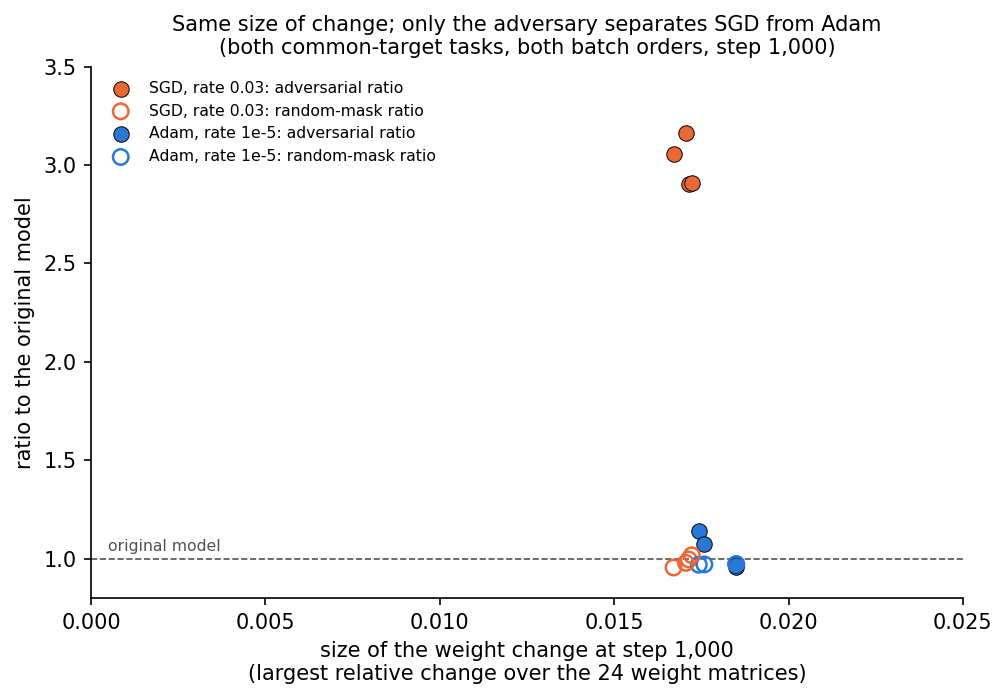
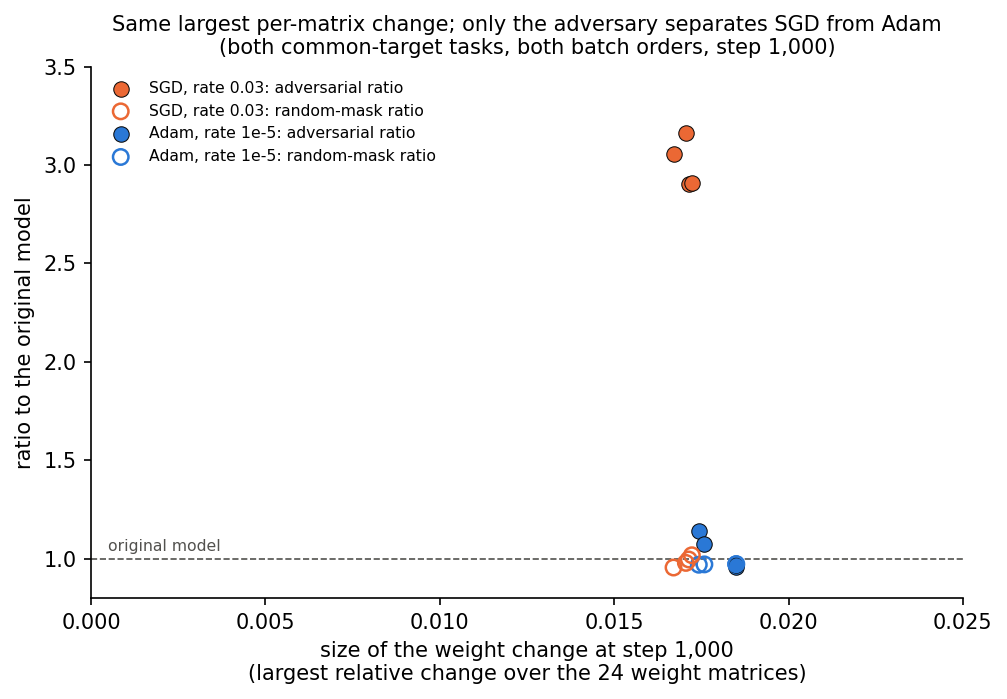
E26 card: final-read fixes

Changed region(s): [[0.1231, 0.0, 0.9235, 0.0601]]

diff --git a/docs/research_log/parts/experiments/e26.html b/docs/research_log/parts/experiments/e26.html
@@ -1,9 +1,9 @@
 <article class="exp held" id="e26">
 <div class="top"><span class="id">E26</span><span class="chip holds">held</span><h3>Do E21's SGD and Adam verdicts come back when the training batches arrive in a different order?</h3><span class="when">2026-10-22 · RunPod H100 ×2 · <code>experiments/ladder_second_seed</code></span></div>
-<p class="one"><strong>The question.</strong> E21 asked whether the optimiser decides if VPD stays faithful (Q11). It used <em>component training</em>, which trains the decomposition's pieces directly on a task while Γ and Δ stay frozen. Adam passed the faithfulness check at steps 100 and 1,000; plain SGD passed at step 100 and failed at step 1,000. Adam's result also met the condition set for moving the commute line (Q1) back to first place: a map that stays faithful and keeps the behaviour at both steps. All of this rested on one order of training batches, the only randomness in this training, so we tried a second order.</p>
+<p class="one"><strong>The question.</strong> E21 asked whether the optimiser decides if VPD stays faithful (Q11, the project's question "does the optimiser matter?"). It used <em>component training</em>, which trains the decomposition's pieces directly on a task while Γ (the decomposition's learned rule for which pieces are switched on for each input) and Δ (the leftover weights no piece explains) stay frozen. Adam passed the faithfulness check at steps 100 and 1,000; plain SGD passed at step 100 and failed at step 1,000. Adam's result also met a condition the project had set: at the time the commute line (Q1: can an update be carried onto the pieces while they stay faithful?) waited behind another line, and it would become the main line again once some map stayed faithful and kept the behaviour at both steps. All of this rested on one order of training batches, the only randomness in this training, so we tried a second order.</p>
 <p class="one"><strong>What we did.</strong> We reran E21's recipe with a new batch order on three next-word tasks. On two the target is a common word: after " it" predict " is", and after " which" predict " was". On the third it is rare: after " in" predict " Fig". Each task had an SGD arm and an Adam arm, read at steps 100 and 1,000. The check is the <em>adversarial ratio</em>: the damage an adversary searching over masks of the pieces does at the trained state, over what it does at the original model; 1 means nothing changed. The line is 1.5, moved by the original model's own spread over adversary seeds, 7.5% here. So a state passes at 1.40 or below, fails at 1.61 or above, and in between is too close to call. A pass also needs the target's held-out probability to stay at 0.9 or more.</p>
-<p class="one"><strong>What we found.</strong> No verdict changed on the two common-target tasks (first figure). Adam passed at both steps; SGD passed at step 100 and failed at step 1,000, at about three times the original model's damage. At step 1,000 both optimisers had made about the same largest change to any weight matrix, and only the adversary told them apart (third figure). On the rare-target task, as in E21, no state was both faithful and kept the target (second figure).</p>
-<p class="one"><strong>What it means.</strong> E21's findings are not an accident of one batch order. The evidence is two orders, one adversary seed per state and a short adversary. Nothing was read between steps 100 and 1,000, so when SGD crosses the line is unknown. The move-back condition was met, but the user dropped the idea of a main line the same day, so it no longer decided anything. Why SGD fails where Adam passes at the same size of change is still open.</p>
+<p class="one"><strong>What we found.</strong> No verdict changed on the two common-target tasks (first figure). Adam passed at both steps; SGD passed at step 100 and failed at step 1,000, at about three times the original model's damage. At step 1,000, at both orders, both optimisers had made about the same largest change to any weight matrix (one measure of size), and only the adversary told them apart (third figure). On the rare-target task, as in E21, no state was both faithful and kept the target (second figure).</p>
+<p class="one"><strong>What it means.</strong> At a second batch order E21's verdicts held, so they are not an accident of one order; that rests on two orders, one adversary seed per state and a short adversary. Nothing was read between steps 100 and 1,000, so when SGD crosses the line is unknown. The condition for making commute the main line again was met, but the user dropped the idea of a main line the same day, running the two lines in parallel, so it no longer decided anything. Why SGD fails where Adam passes, with the same largest per-matrix change at two orders, is still open.</p>
 <figure>
 <img src="fig/e26_log_verdicts.png" alt="Two panels, one per common-target task (' it' then ' is', ' which' then ' was'), adversarial ratio on a linear axis at step 100 and step 1,000, with green pass band up to 1.40, grey band to 1.61 and red fail band above. Second batch order: SGD 0.97 and 1.05 at step 100, 3.06 and 2.91 at step 1,000; Adam 0.95 and 0.98 at step 100, 1.14 and 0.96 at step 1,000. First batch order rerun at step 1,000: SGD 2.91 and 3.16, Adam 1.07 and 0.97.">
 <figcaption><strong>1. Does a second batch order change any verdict on the common-target tasks?</strong> No. One panel per task; each point is one trained state's adversarial ratio. Orange is SGD (rate 0.03), blue is Adam (rate 1e-5). Circles are the second batch order; diamonds are the first order rerun in this experiment, on the same H100 as the second order, at step 1,000 only. Green is a pass, red a fail, grey too close to call. The small grey number under each point is the target's held-out probability, 0.92 or more for every state here, so the band alone gives the verdict. Only steps 100 and 1,000 were read, so the plot does not show when SGD crosses.</figcaption>

diff --git a/experiments/ladder_second_seed/plot_log.py b/experiments/ladder_second_seed/plot_log.py
@@ -136,7 +136,7 @@ def fig_size(runs: dict[str, dict[str, Any]]) -> None:
     ax.set_ylim(0.8, 3.5)
     ax.set_xlabel("size of the weight change at step 1,000\n(largest relative change over the 24 weight matrices)")
     ax.set_ylabel("ratio to the original model")
-    ax.set_title("Same size of change; only the adversary separates SGD from Adam\n"
+    ax.set_title("Same largest per-matrix change; only the adversary separates SGD from Adam\n"
                  "(both common-target tasks, both batch orders, step 1,000)", fontsize=10)
     style(ax)
     ax.legend(loc="upper left", fontsize=7.5, frameon=False)
